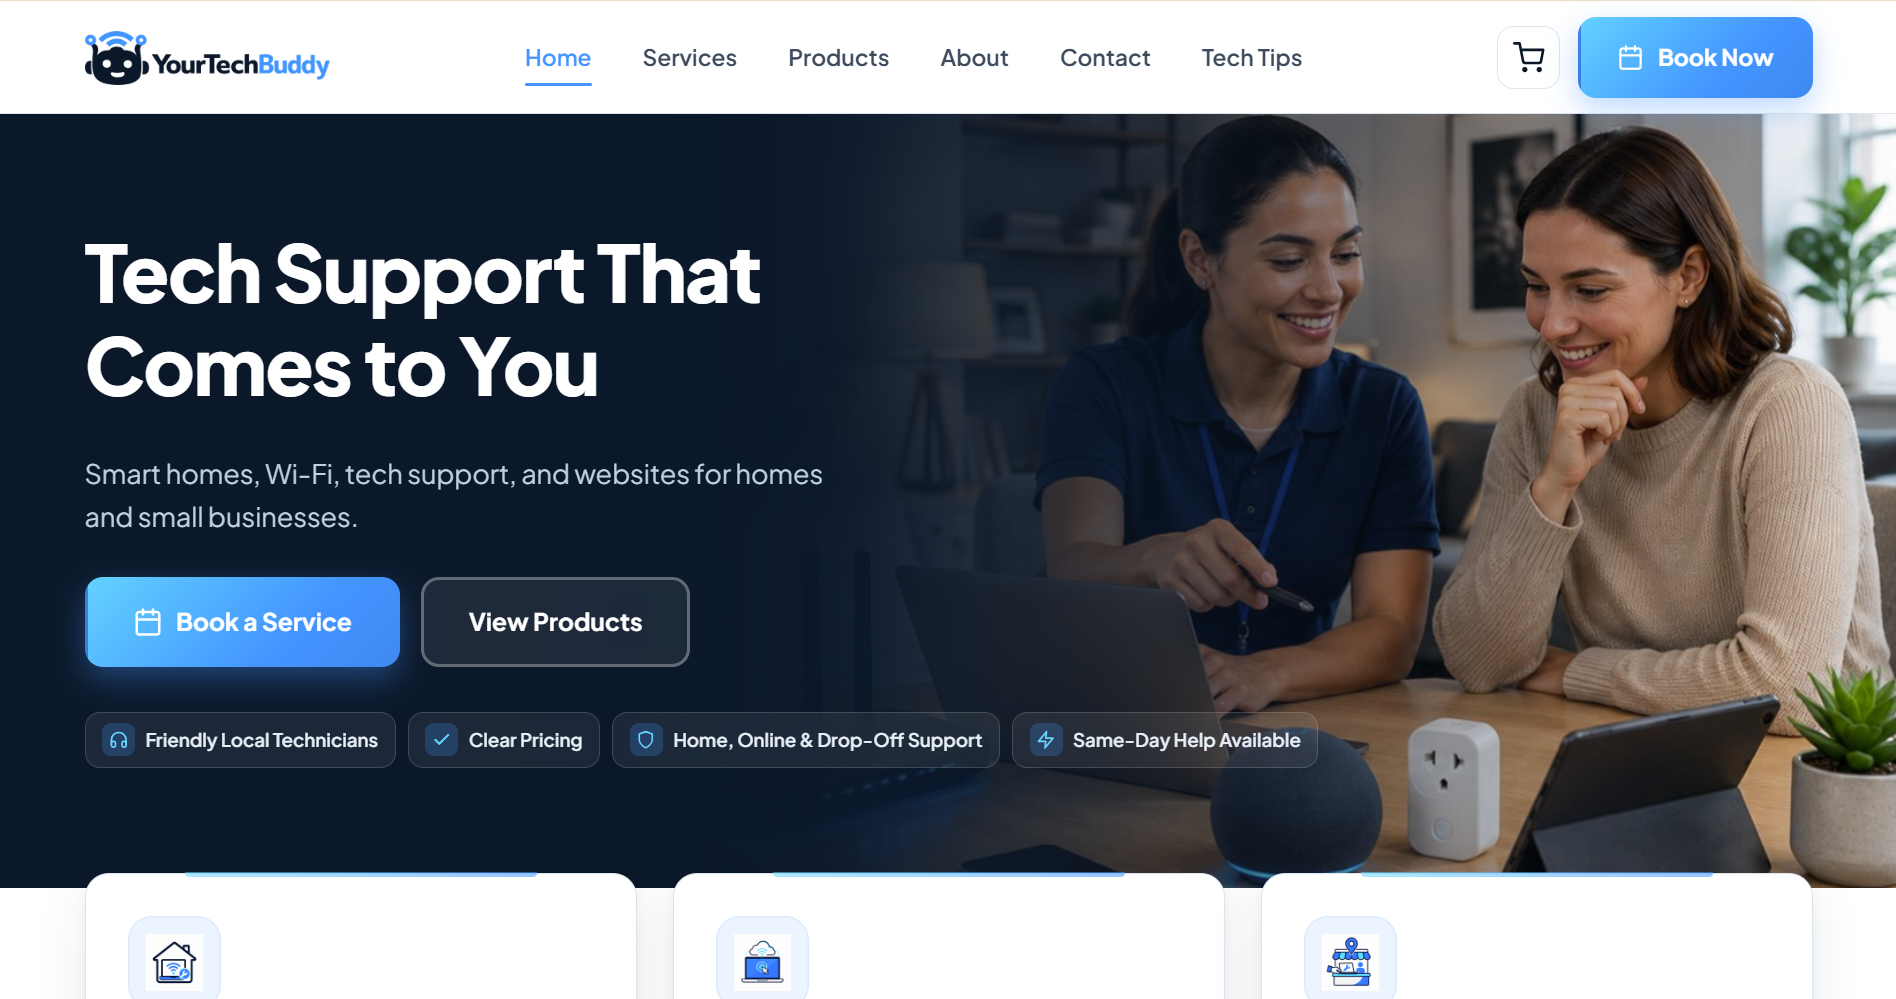
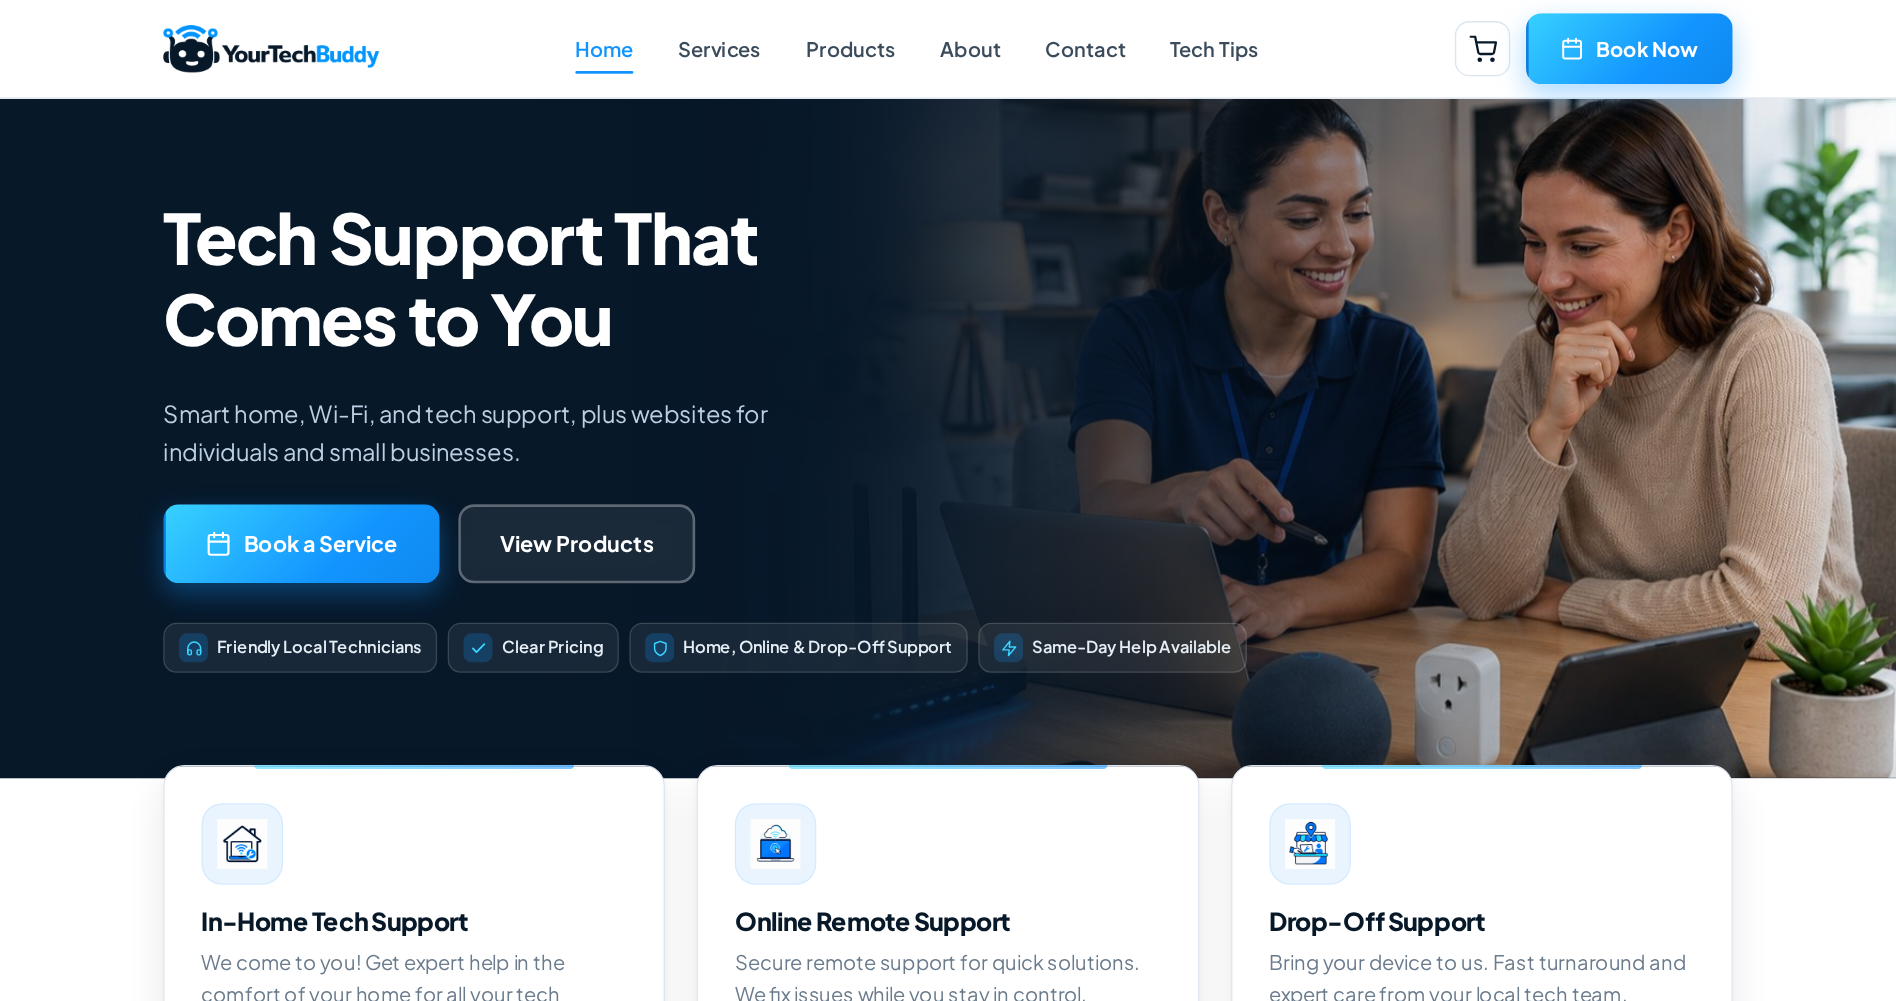
Update README and screenshots

diff --git a/README.md b/README.md
@@ -1,6 +1,8 @@
-# YourTechBuddy: Business Website
+# YourTechBuddy Website
 
-A modern, responsive multi-page website for **YourTechBuddy**, a local tech-support business in Surrey, BC. It brings together four services (smart homes, Wi-Fi and networking, tech support, and web development), a product shop, a booking flow and a library of practical tech guides.
+This is the website I designed and built for YourTechBuddy, a tech-support business I co-founded. We're based in Surrey, BC and work with homes and small businesses across Metro Vancouver.
+
+The site covers our four services (smart homes, Wi-Fi and networking, tech support, and web development). Customers can book an appointment online, buy from a small product shop and leave reviews, and there's a set of how-to articles. Behind the public pages there's an admin dashboard where we update content, handle bookings and messages, and approve reviews without touching the code.
 
 **Live site:** [yourtechbuddy.ca](https://yourtechbuddy.ca)
 
@@ -8,137 +10,141 @@ A modern, responsive multi-page website for **YourTechBuddy**, a local tech-supp
 
 | | |
 |---|---|
-| **Role** | Co-founder; designer and developer of the website |
-| **Type** | Small-business website with shop, booking and articles |
-| **Built with** | HTML, CSS, JavaScript (no frameworks) |
+| **Role** | Co-founder, designer and developer |
+| **Type** | Small-business website with booking, shop, articles and an admin dashboard |
+| **Built with** | HTML, CSS, JavaScript, PHP, MySQL |
 | **Year** | 2026 |
 | **Source code** | Private, available on request |
 
-> **Note:** This repository is a visual showcase of the project. It contains screenshots and a project write-up only. The source code is private.
+> This repository is a showcase of the project: screenshots and a write-up. The source code isn't included.
 
 ---
 
 ## Contents
-- [My Role](#my-role)
+- [My role](#my-role)
 - [Screenshots](#screenshots)
 - [Features](#features)
-- [Challenges and Solutions](#challenges-and-solutions)
-- [Built With](#built-with)
+- [Challenges and solutions](#challenges-and-solutions)
+- [Built with](#built-with)
 - [Contact](#contact)
 
 ---
 
-## My Role
+## My role
 
-I'm a co-founder of YourTechBuddy, and I designed and built the company website from idea to launch.
+I took the website from a blank page to launch. I worked out what the business actually needed online, grouped our services into four categories, planned the pages and navigation, and wrote most of the copy.
 
-- **Defined the requirements:** I decided what the business needed online: four service areas, a product shop, booking and contact forms, and a Tech Tips section.
-- **Shaped the structure and content:** I reorganised the services into four clear categories, chose the pages and navigation, and decided on the wording, business details and calls to action.
-- **Designed and developed the site:** I built the pages with HTML, CSS and JavaScript, set up the shared design system (colours, spacing, cards and icons) and kept the branding consistent across about 50 pages.
-- **Tested and refined:** I checked every page on desktop and phone and refined the layout until it worked well on every screen size.
+I built the front end by hand with HTML, CSS and JavaScript, without a framework. Early on I set up a small design system (colours, spacing, cards and icons) so that the 50 or so pages look like they belong together.
+
+Later I added a back end with PHP and MySQL for online booking, the product catalogue, customer reviews, email notifications and the admin dashboard. I used AI coding tools for a good part of that code. My part was deciding what each feature had to do, reviewing what came back, testing it on desktop and phone, and deploying each version.
 
 ---
 
 ## Screenshots
 
 ### Homepage
-The hero gives a clear headline, a one-line summary of the services, two calls to action, and four trust badges.
+A short headline, a one-line summary of what we do, two buttons and four small trust badges.
 
 ![Homepage hero](screenshots/01-home-hero.png)
 
-### Call to Action and Footer
-A closing call-to-action banner sits above a footer that holds quick links, the four service areas, contact details, business hours and a newsletter sign-up.
+### Call to action and footer
+The closing banner, followed by a footer with quick links, the four services, contact details, opening hours and a newsletter sign-up.
 
 ![Call to action and footer](screenshots/02-home-cta-and-footer.png)
 
-### Services Overview
-Four value points in a single panel, followed by the four main service categories, each with its own illustration, summary and button.
+### Services overview
+Four value points, then the four service categories, each with its own image, summary and button.
 
 ![Services overview](screenshots/03-services-overview.png)
 
-### Service Page: Smart Home Solutions
-A 12-tile "What We Help With" grid, with links to related services for visitors whose problem fits another area.
+### Service page: Smart Home Solutions
+Every service page has a "What We Help With" grid like this one, plus links to related services in case a visitor's problem fits better somewhere else.
 
 ![Smart Home Solutions: What We Help With](screenshots/04-smart-home-what-we-help-with.png)
 
-### Product Shop
-The catalogue has category filters, product badges, prices, Add to Cart buttons and detail pages.
+### Product shop
+Category filters, badges, prices, Add to Cart buttons and a detail page for each product.
 
 ![Product shop](screenshots/05-products-shop.png)
 
 ### About
-Four value cards set out what the business stands for: Friendly First, Honest & Transparent, Fast & Reliable, and Plain-English Help.
+The four things we care about most: Friendly First, Honest & Transparent, Fast & Reliable, and Plain-English Help.
 
 ![About page: What We Stand For](screenshots/06-about-values.png)
 
 ### Contact
-The page has contact cards, a validated contact form, and panels for support hours, response time and service area.
+Contact cards, a contact form, and panels for support hours, response time and the area we cover.
 
 ![Contact page](screenshots/07-contact.png)
 
 ### Tech Tips
-Short, practical guides that can be filtered by topic: Smart Home, Wi-Fi & Networks, Tech Support, and Web & Digital.
+Short how-to guides that can be filtered by topic.
 
 ![Tech Tips](screenshots/08-tech-tips.png)
+
+### Online booking
+You pick a day from a small calendar, then a time from the slots that are actually free that day.
+
+![Booking: choosing a date and time](screenshots/09-booking-date-and-time.png)
+
+### Admin dashboard
+This is where we run the site from. The screenshot shows the "What We Help With" tiles for one of the service pages. We can add, edit, hide or reorder them, and the public page updates as soon as we save.
+
+![Admin dashboard: service page tiles](screenshots/10-admin-service-pages.png)
 
 ---
 
 ## Features
 
-- **Four service areas:**
-  - Smart Home Solutions;
-  - Network Design & Setup;
-  - Tech Support;
-  - Web Development.
-
-  Each has its own page with a "What We Help With" grid, real customer scenarios ("Sound familiar?") and links to related services.
-- **Three ways to get help:** in-home, online remote, and drop-off support.
-- **Booking and contact forms:**
-  - input is validated in the browser;
-  - links can pre-select a service or contact reason, so a "Book" button on a service page opens the form with that service already chosen.
-- **Product shop:**
-  - 12 products with category filters and product detail pages;
-  - a cart that is saved in the browser;
-  - optional setup add-ons;
-  - a checkout page that works through the full flow. It is a demo, so no real payment is processed.
-- **Tech Tips:** 12 how-to articles with topic filters.
-- **Fully responsive:** the layouts adapt from 320px phones to 1920px desktops, and the mobile menu slides in.
-- **Consistent design system:** shared colours, spacing, card styles and icon set across about 50 pages.
+- **Four service pages.** Each one has a "What We Help With" grid, a few real customer scenarios ("Sound familiar?") and links to related services.
+- **Three ways to get help:** in-home visits, remote support or drop-off.
+- **Online booking.** The calendar only offers days and times that are free, based on our opening hours, holidays and existing bookings. The customer gets a confirmation email with a reference number and we get a copy with all the details. The booking buttons on the service pages open the form with that service already selected.
+- **Contact form and newsletter.** Both are saved to the database, and we get an email when something new comes in.
+- **Product shop.** 12 products with category filters, up to three photos each, a cart that remembers what you added, and optional setup help. Checkout is a demo, so no payment is taken.
+- **Customer reviews.** Star ratings, written reviews and photos. We approve each review before it goes live, the average rating only counts approved reviews, and we can reply under a review.
+- **Tech Tips.** 12 how-to articles, written and published from the dashboard.
+- **Admin dashboard.** Bookings and messages, newsletter sign-ups (with CSV export), products, reviews, service pages, articles, homepage content, FAQ, business details, opening hours and an announcement bar.
+- **Fast pages.** Content is kept in the database, but the public pages are published as plain HTML, so they load quickly.
+- **Responsive** from 320px phones up to 1920px desktops.
 
 ---
 
-## Challenges and Solutions
+## Challenges and solutions
 
-These are some of the problems I ran into while building and refining the site. When I got stuck, I researched online and used AI tools to help pin down the cause and compare possible fixes. Then I applied the solution and tested it across devices.
+A few of the problems I ran into, and how I dealt with them. When I got stuck I searched around and used AI tools to narrow down the cause, then tested the fix on different devices.
 
 | Challenge | Solution |
 |---|---|
-| The site offered too many separate services, which made it hard for visitors to find the right help. | I grouped the services into four clear categories, each with its own page, and set up redirects from the old page addresses so no links would break. |
-| Buttons sometimes needed two clicks: hover animations lifted the cards, moving the button away from the pointer. | I extended each button's invisible click area so it still catches the click while the card moves, so every button works on the first click or tap. |
-| On phones, the current page in the mobile menu shifted to the right, out of line with the other items. | I tracked it to extra left padding on the active link and removed it, so every row uses the same alignment and the labels and arrows line up. |
-| Text on small screens broke awkwardly, with a dash starting a new line and "Wi-Fi" splitting in two. | I adjusted the line-wrapping rules, kept hyphenated words together, and rewrote long messages as clear two-line statements. |
-| The site has many pages and needed to work on every screen size. | I checked each change at widths from small phones (320px) to large desktops (1920px), looking for horizontal scrolling, clipped text, broken images and missed clicks. |
+| We listed too many separate services, and visitors had trouble finding the right one. | I grouped them into four categories, gave each its own page, and redirected the old page addresses so no links broke. |
+| Some buttons needed two clicks, because the hover animation moved the card (and the button) away from the pointer. | I made each button's invisible click area larger, so it still catches the click while the card moves. |
+| On phones, the current page in the mobile menu sat further right than the other items. | The active link had extra left padding. Removing it lined everything up again. |
+| Text on small screens broke in odd places, like a dash starting a new line or "Wi-Fi" splitting in two. | I changed the line-wrapping rules, kept hyphenated words together and rewrote some long messages as two short lines. |
+| We wanted to update content without editing code, but the pages still had to load fast. | The dashboard saves changes to the database and then writes them into the static pages, so visitors still get plain HTML. |
+| Picking a date and time meant scrolling through long dropdown lists. | I replaced them with a small calendar and a grid of time slots that only shows free times. Both work with a mouse, touch or keyboard. |
+| Two people could try to book the same time slot. | The server checks the slot again before saving. If someone just took it, the customer is asked to pick another time. |
+| Product ratings had to be genuine. | Every review is approved before it appears, and the average only counts approved reviews. |
+| With this many pages, every change had to work on every screen size. | I checked each change at widths from 320px phones to 1920px desktops, looking for sideways scrolling, clipped text, broken images and missed taps. |
 
 ---
 
-## Built With
+## Built with
 
 | Area | Tools |
 |---|---|
-| Structure | HTML5 |
-| Styling | CSS3 (custom properties, Grid, Flexbox, responsive media queries) |
-| Interactivity | Vanilla JavaScript (menu, filters, carousels, form validation, cart) |
-| Typography | Plus Jakarta Sans (Google Fonts) |
+| Front end | HTML5, CSS3 (custom properties, Grid, Flexbox), vanilla JavaScript |
+| Back end | PHP |
+| Database | MySQL |
+| Font | Plus Jakarta Sans (Google Fonts) |
 
 ---
 
 ## Contact
 
-YourTechBuddy offers friendly, practical technology help for homes and small businesses in Surrey and the surrounding Metro Vancouver area.
+YourTechBuddy helps homes and small businesses across Metro Vancouver with everyday technology.
 
 - **Website:** [yourtechbuddy.ca](https://yourtechbuddy.ca)
 - **Email:** info@yourtechbuddy.ca
 
-To review the source code for a job application, please get in touch.
+If you'd like to look at the source code for a job application, please get in touch.
 
 © 2026 YourTechBuddy. All rights reserved. See [LICENSE](LICENSE).
